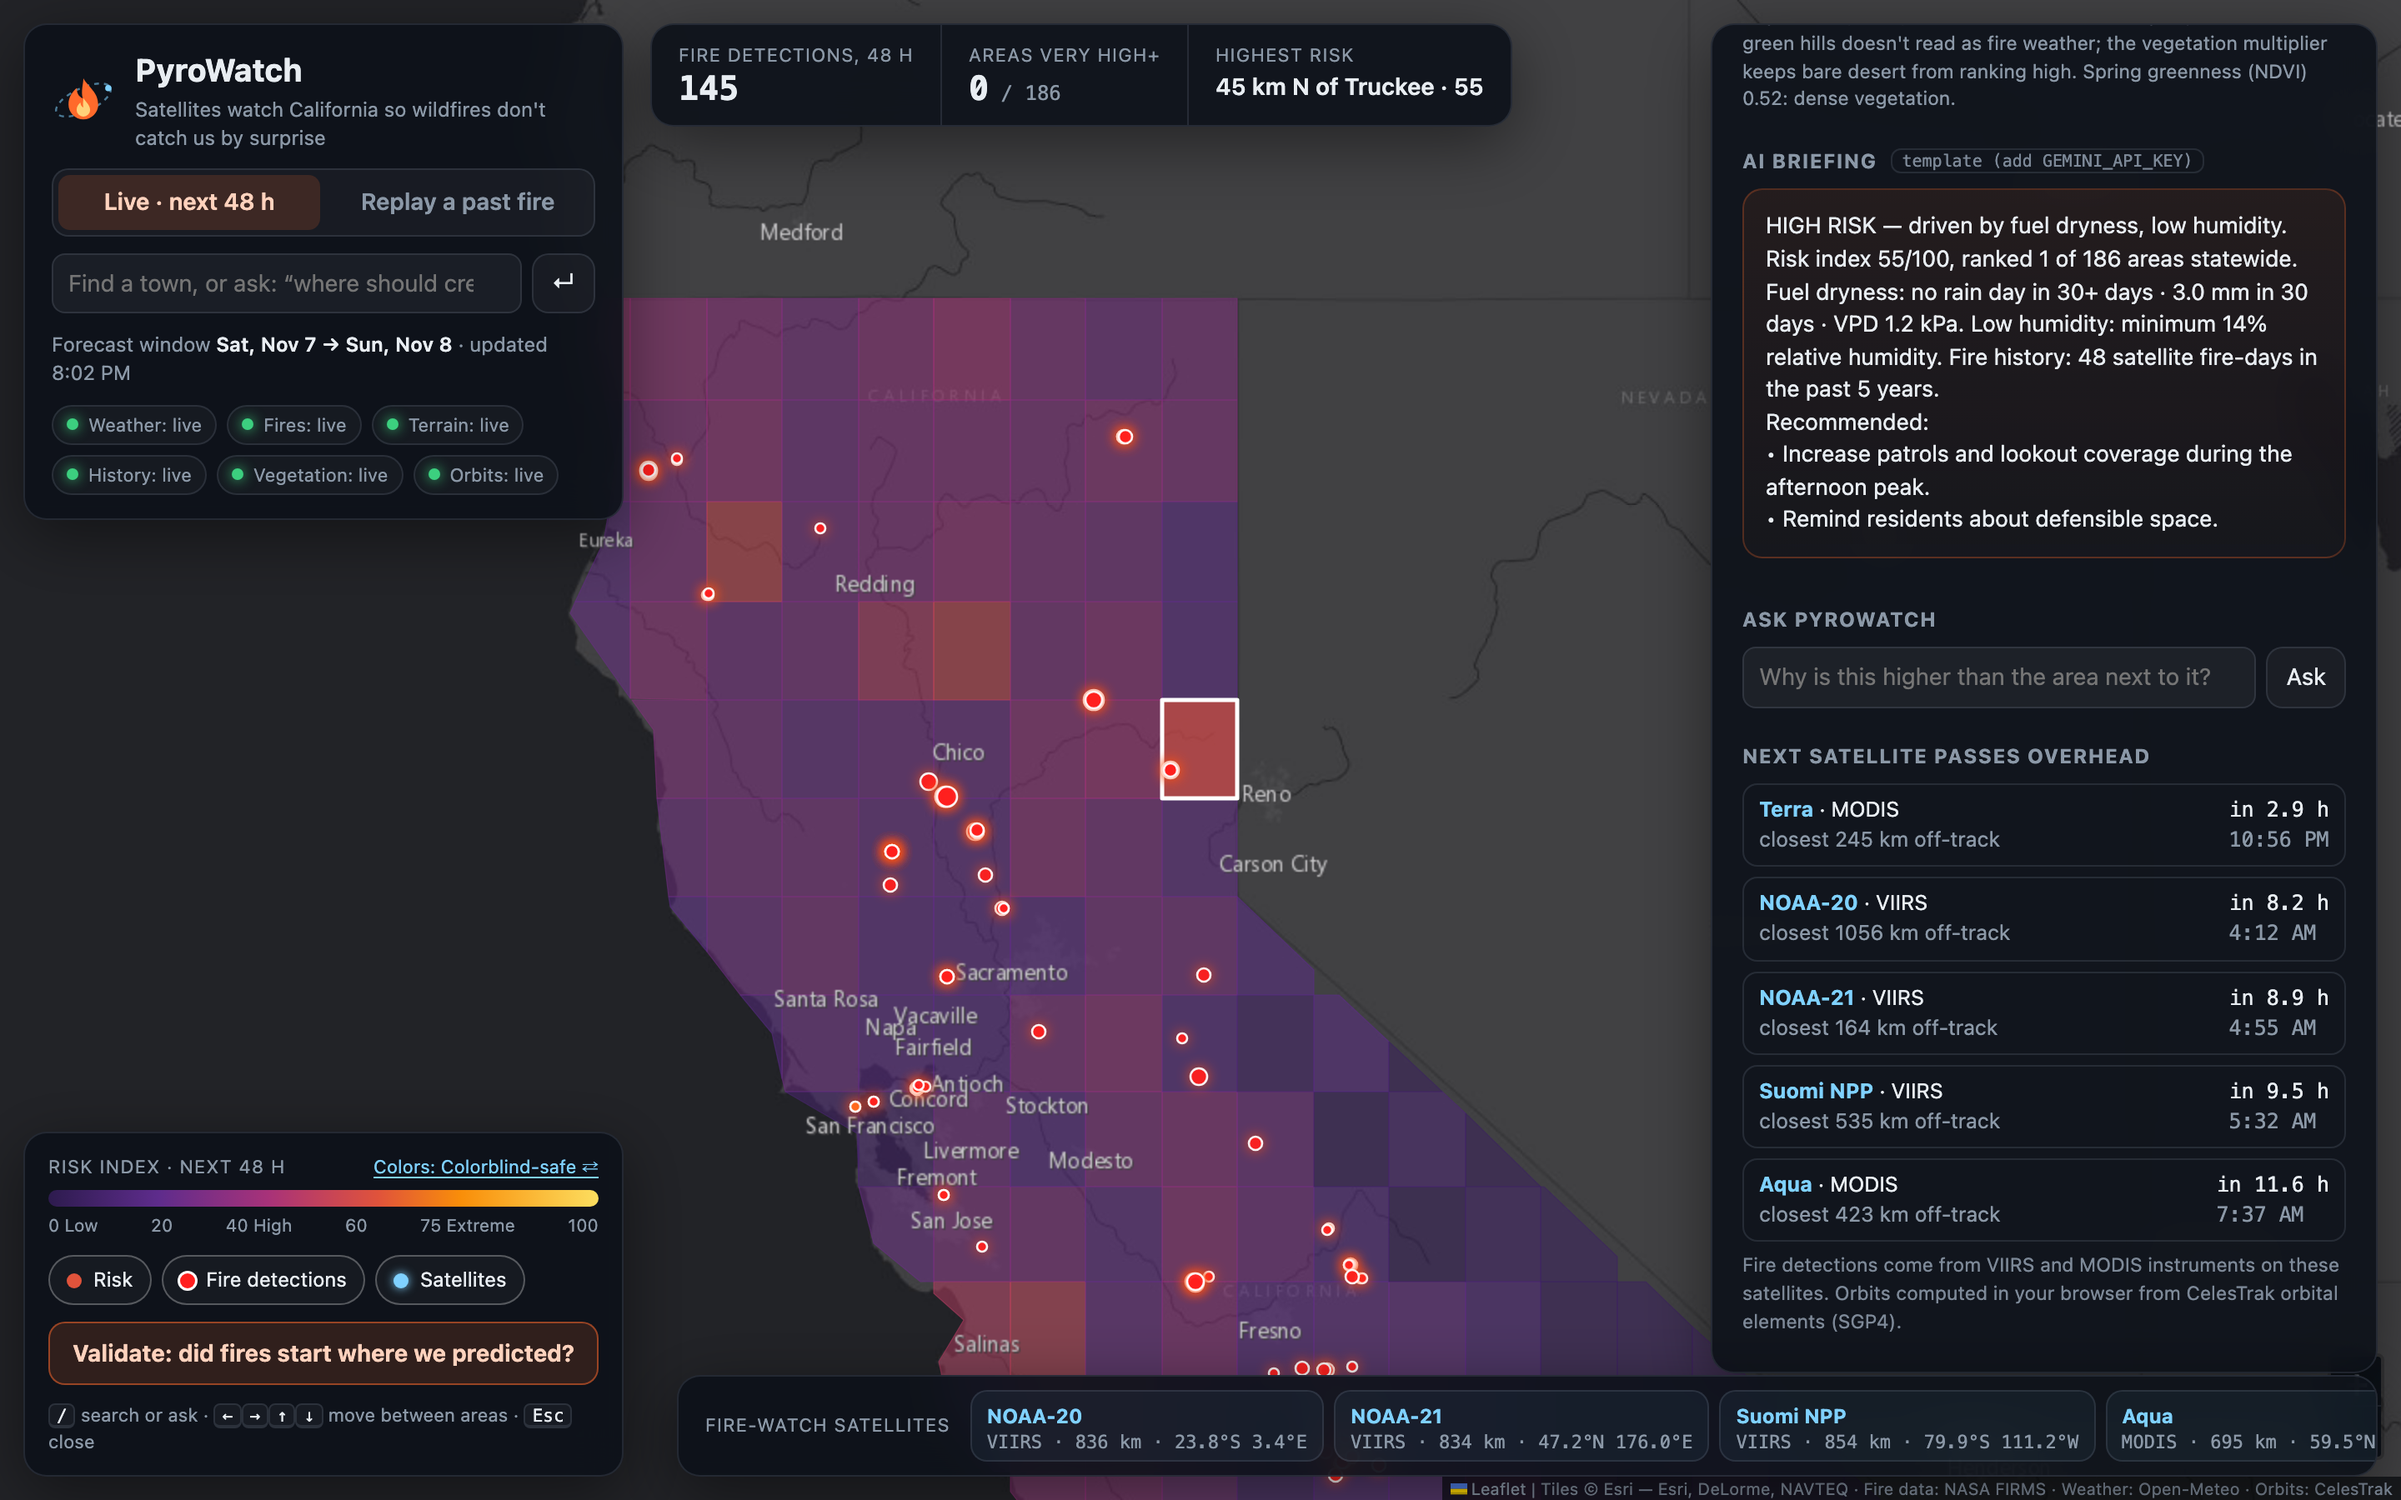
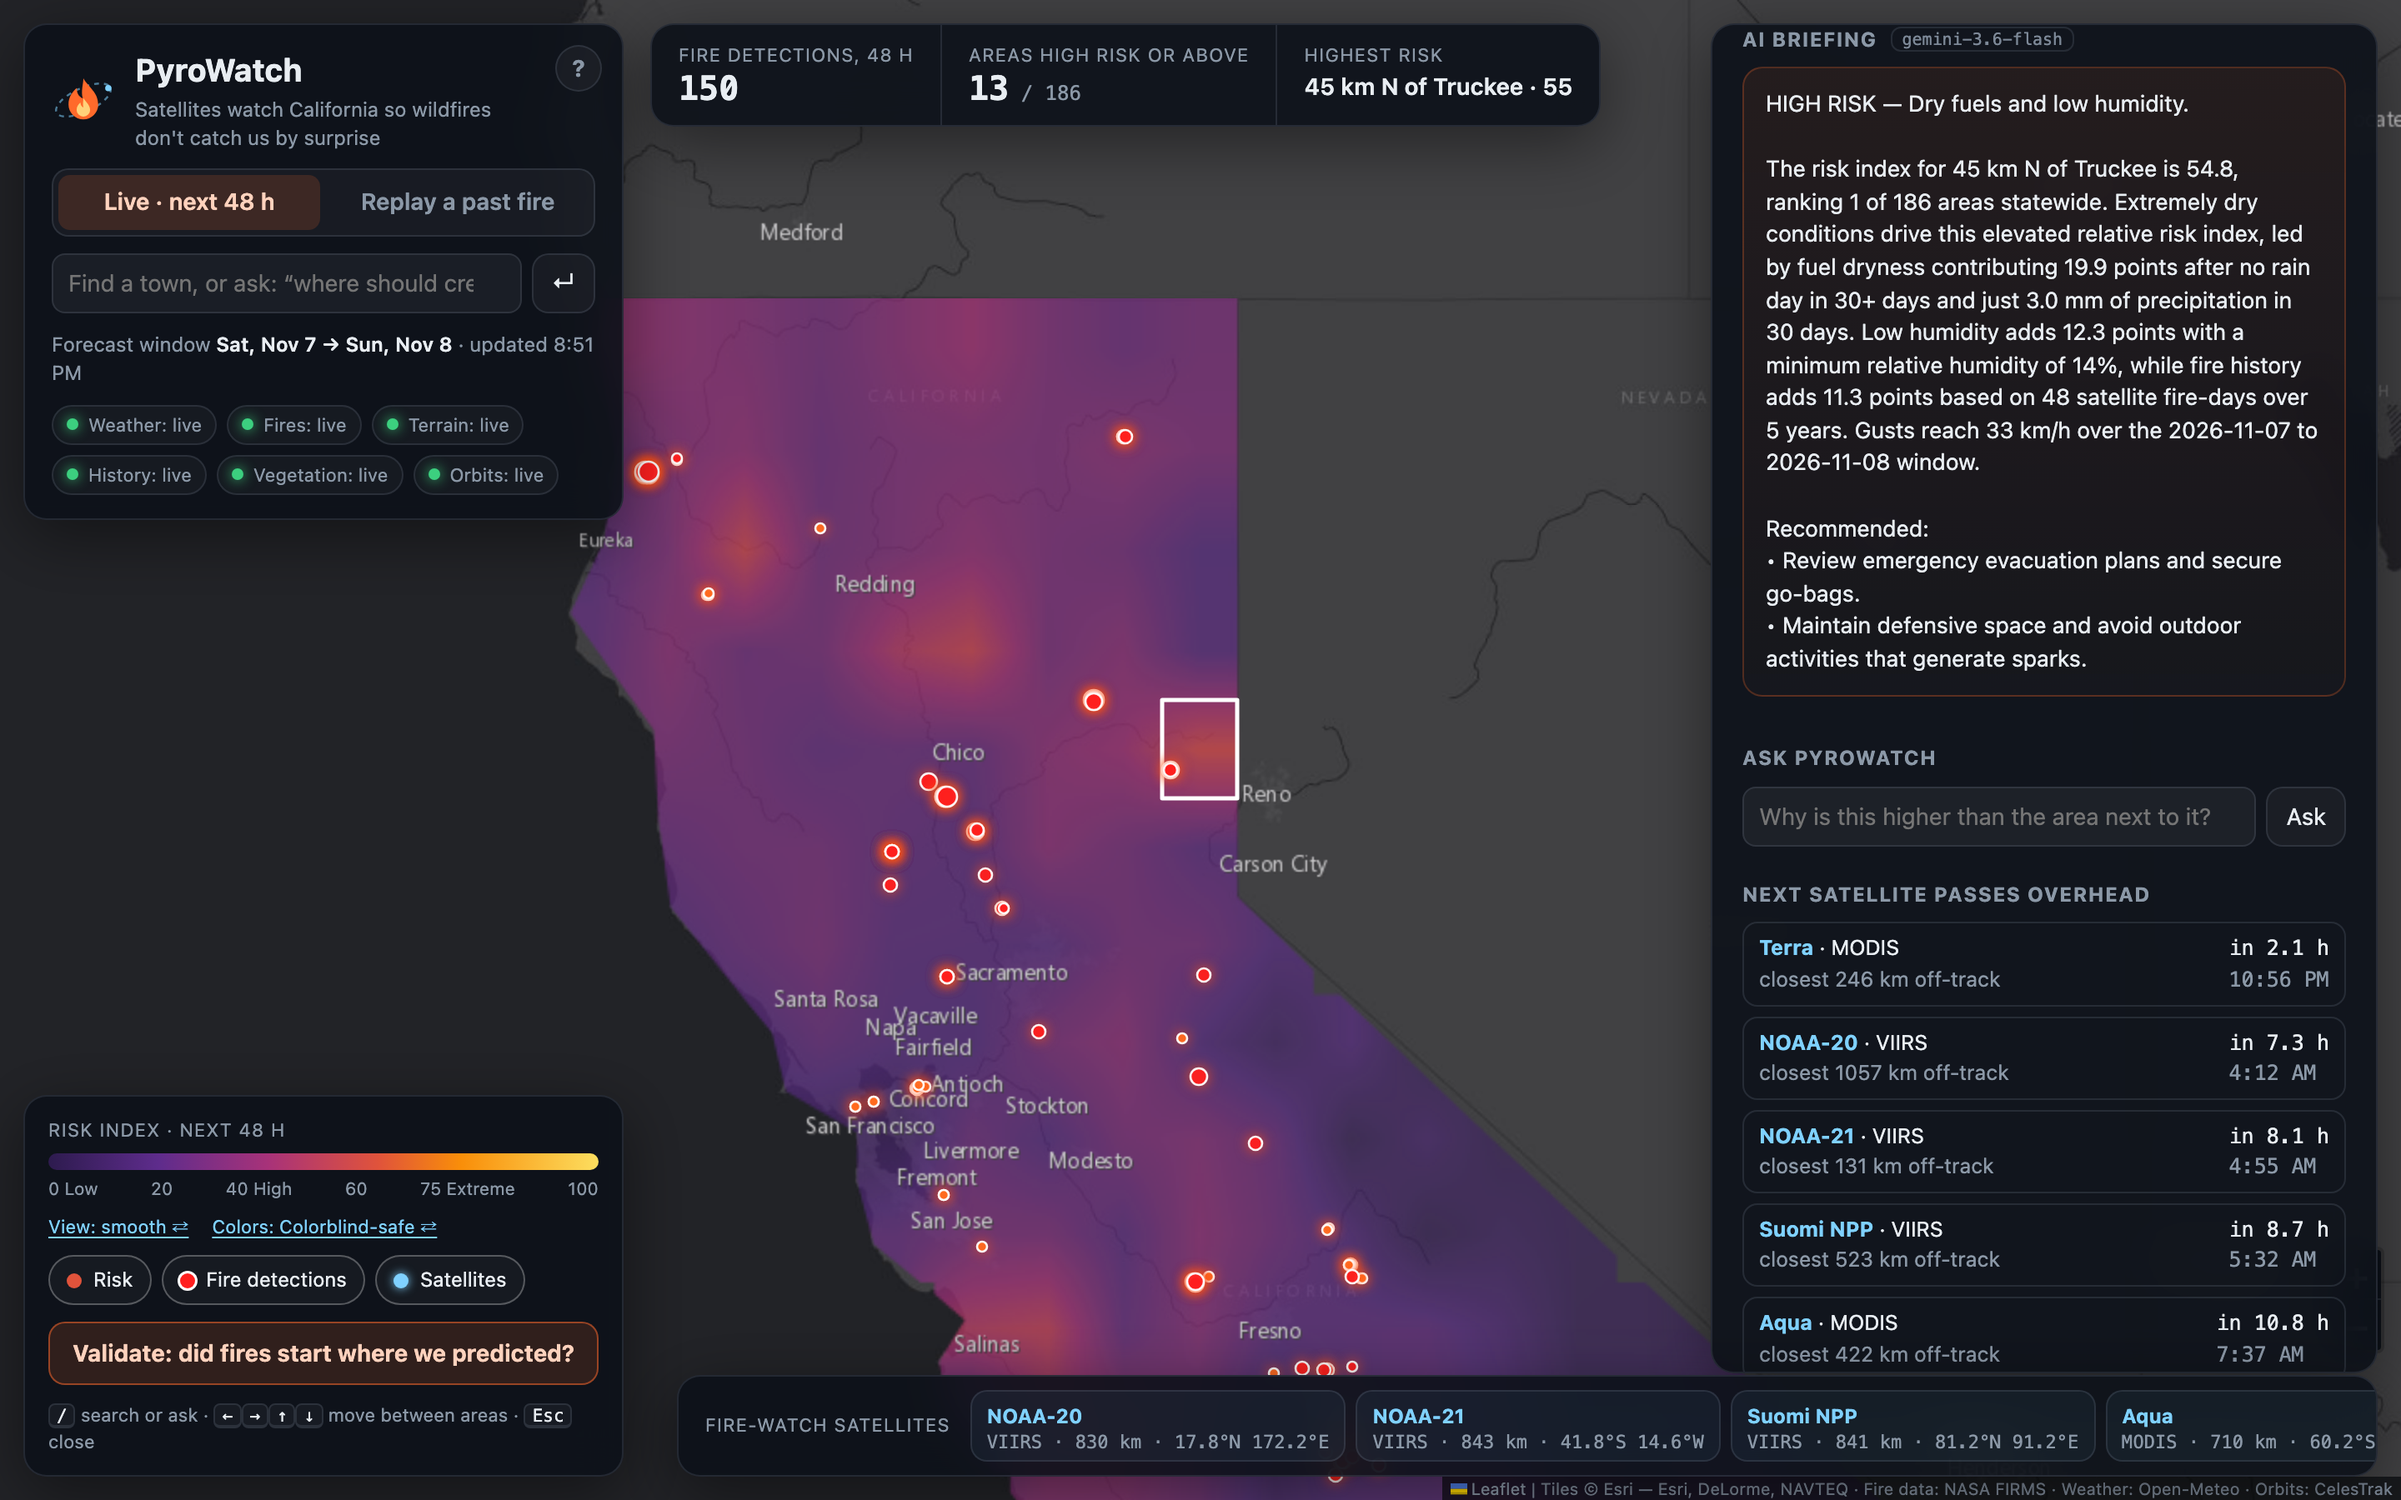
Retake screenshots with Gemini working and the smooth map

diff --git a/screenshots/CAPTIONS.md b/screenshots/CAPTIONS.md
@@ -5,8 +5,7 @@
 | 01-live-risk-map.png | Live 48-hour wildfire risk for all 186 areas of California, with NASA satellite fire detections and the fire-watch satellites' orbits. |
 | 02-why-this-score.png | Click any area (45 km N of Truckee here): its score broken down factor by factor, plus the trained model's 7-day fire probability. |
 | 03-briefing-and-satellite-passes.png | A plain-language briefing written by Gemini, and when each fire-watch satellite next passes overhead (computed from live orbital data). |
-| 04-ask-pyrowatch.png | Ask PyroWatch: a Gemini agent answers by calling PyroWatch's own tools (0 calls here), listed above the answer. |
+| 04-ask-pyrowatch.png | Ask PyroWatch: a Gemini agent answers by calling PyroWatch's own tools (2 calls here), listed above the answer. |
 | 05-fire-watch-satellites.png | The five satellites that detect fires (NOAA-20, NOAA-21, Suomi NPP, Aqua, Terra), tracked live with their ground tracks and sensor footprints. |
 | 06-replay-day-before.png | Replay: the map as it stood on 2025-01-06, using only data available that day. 25 km N of Malibu ranked #1 of 186. |
-| 07-what-happened-next.png | Reveal: the fires satellites saw over the next 3 days. 2 of 3 significant new fires (67%) started in areas already in our top 20% before any satellite saw them. |
 | 09-phone.png | Works on a phone: tap an area and its details slide up from the bottom. |
